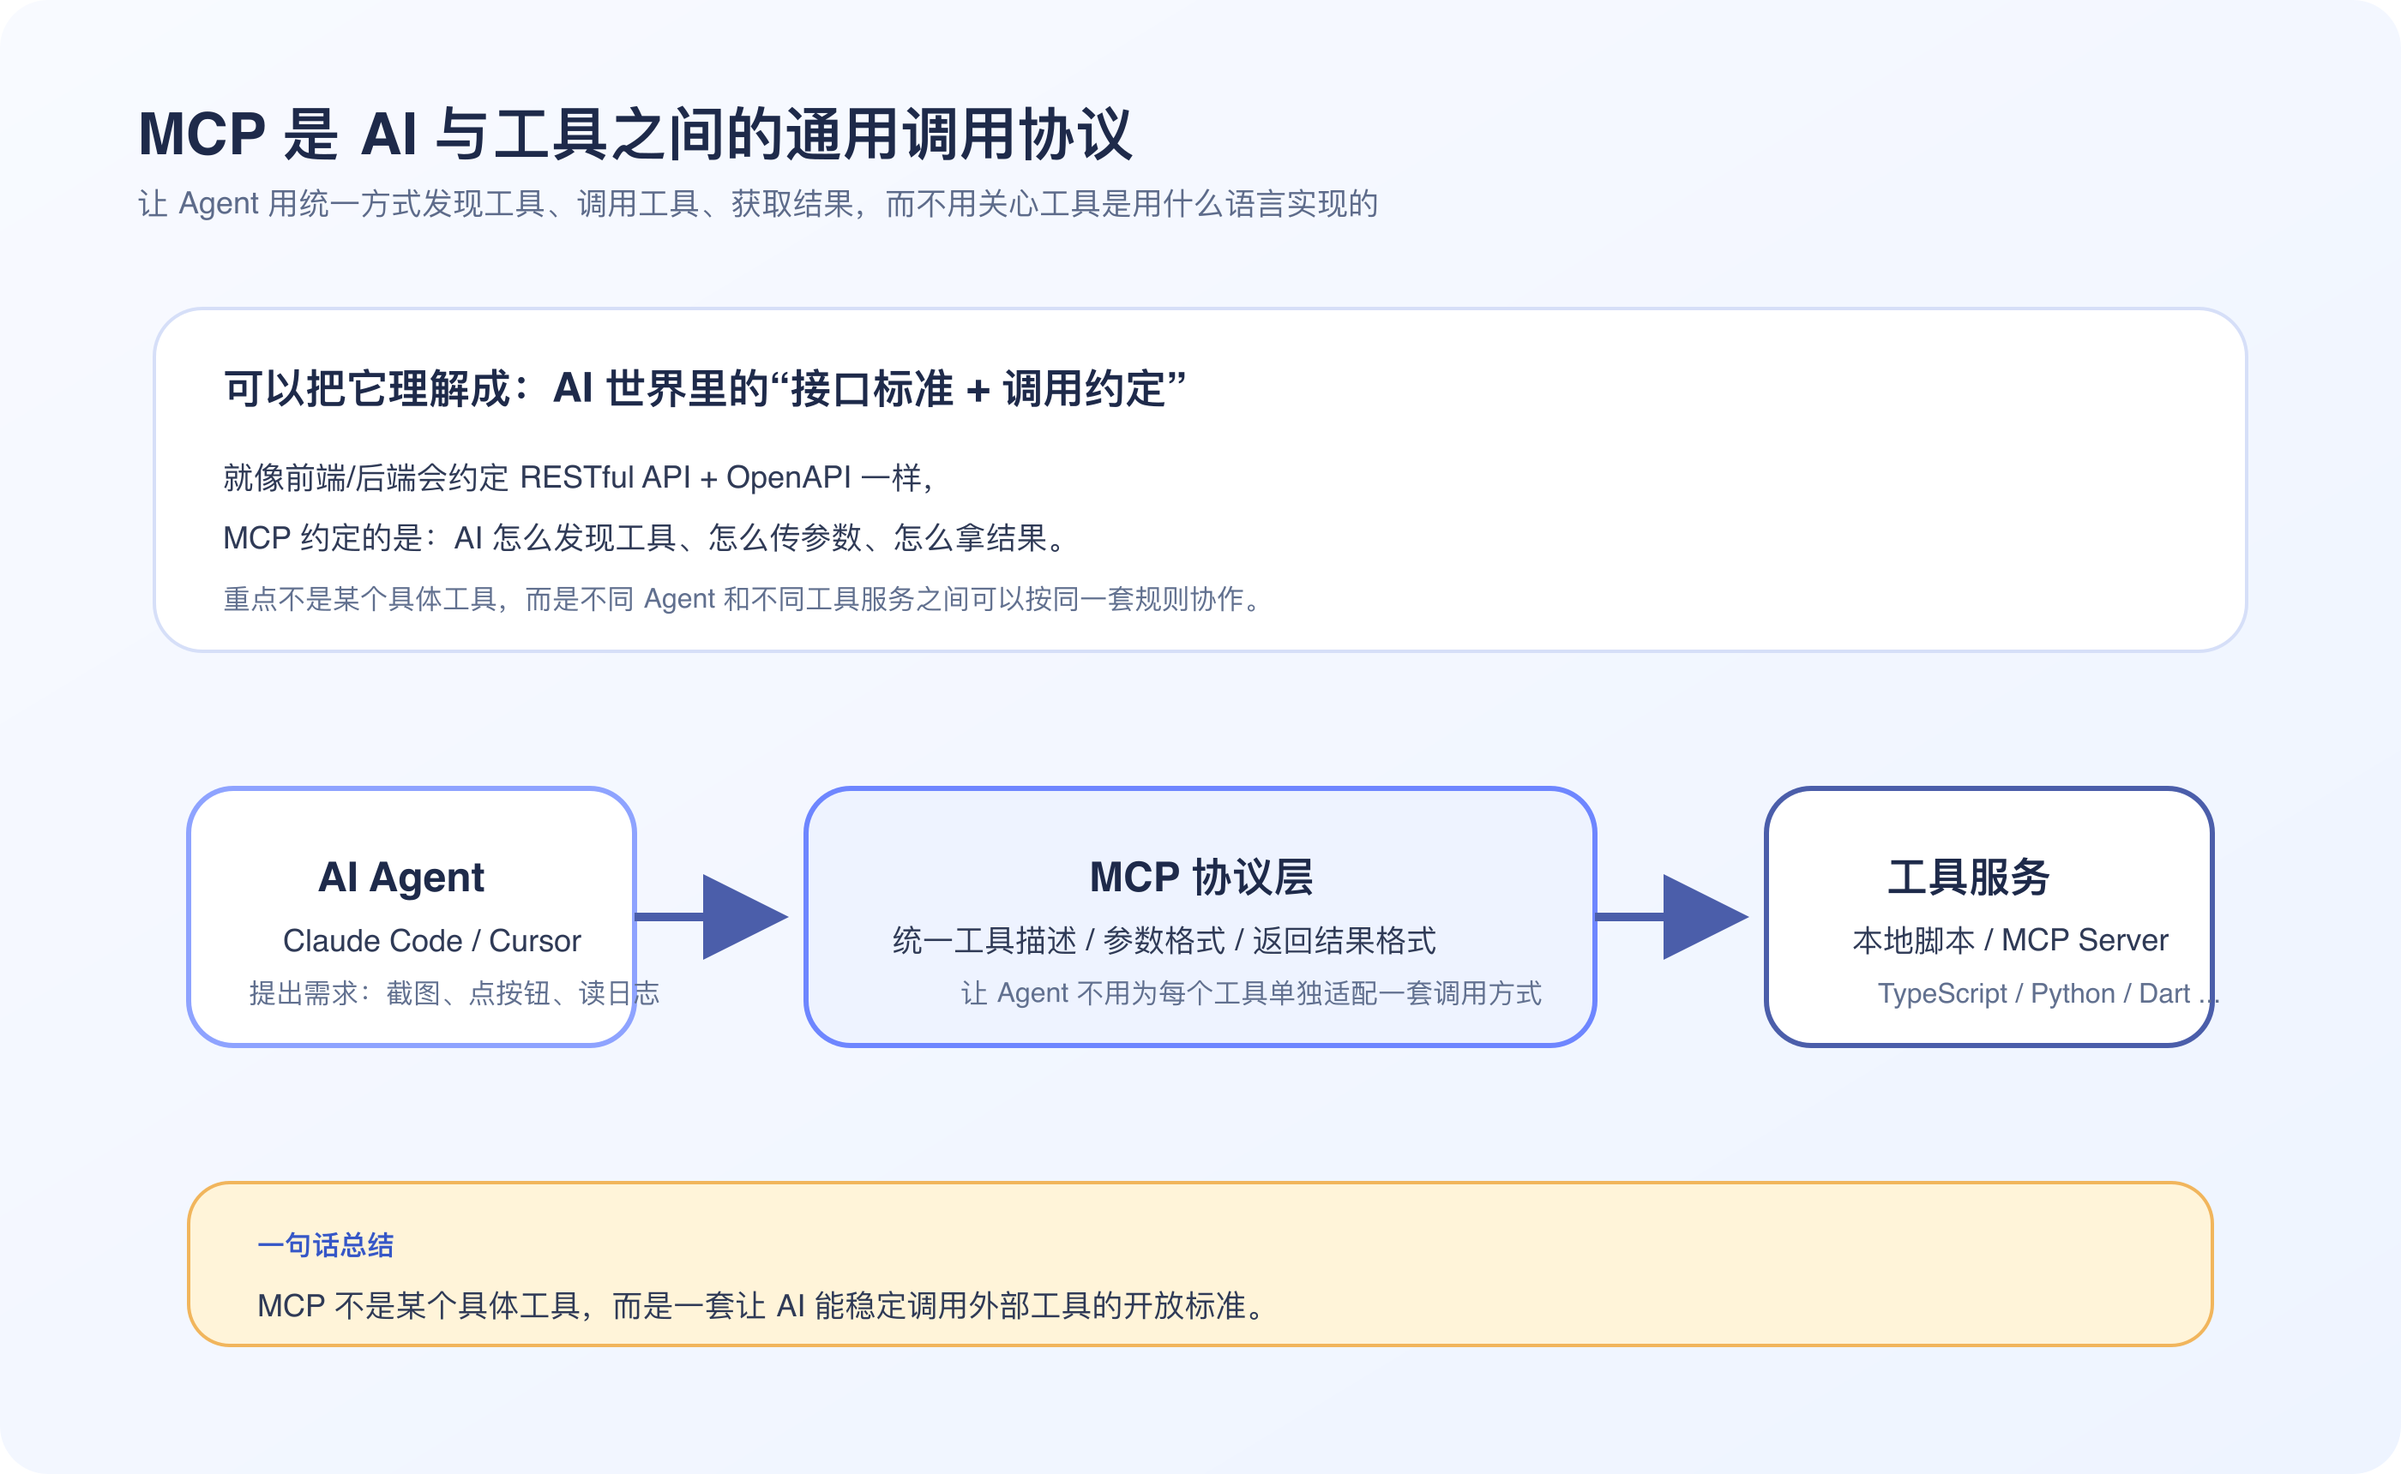
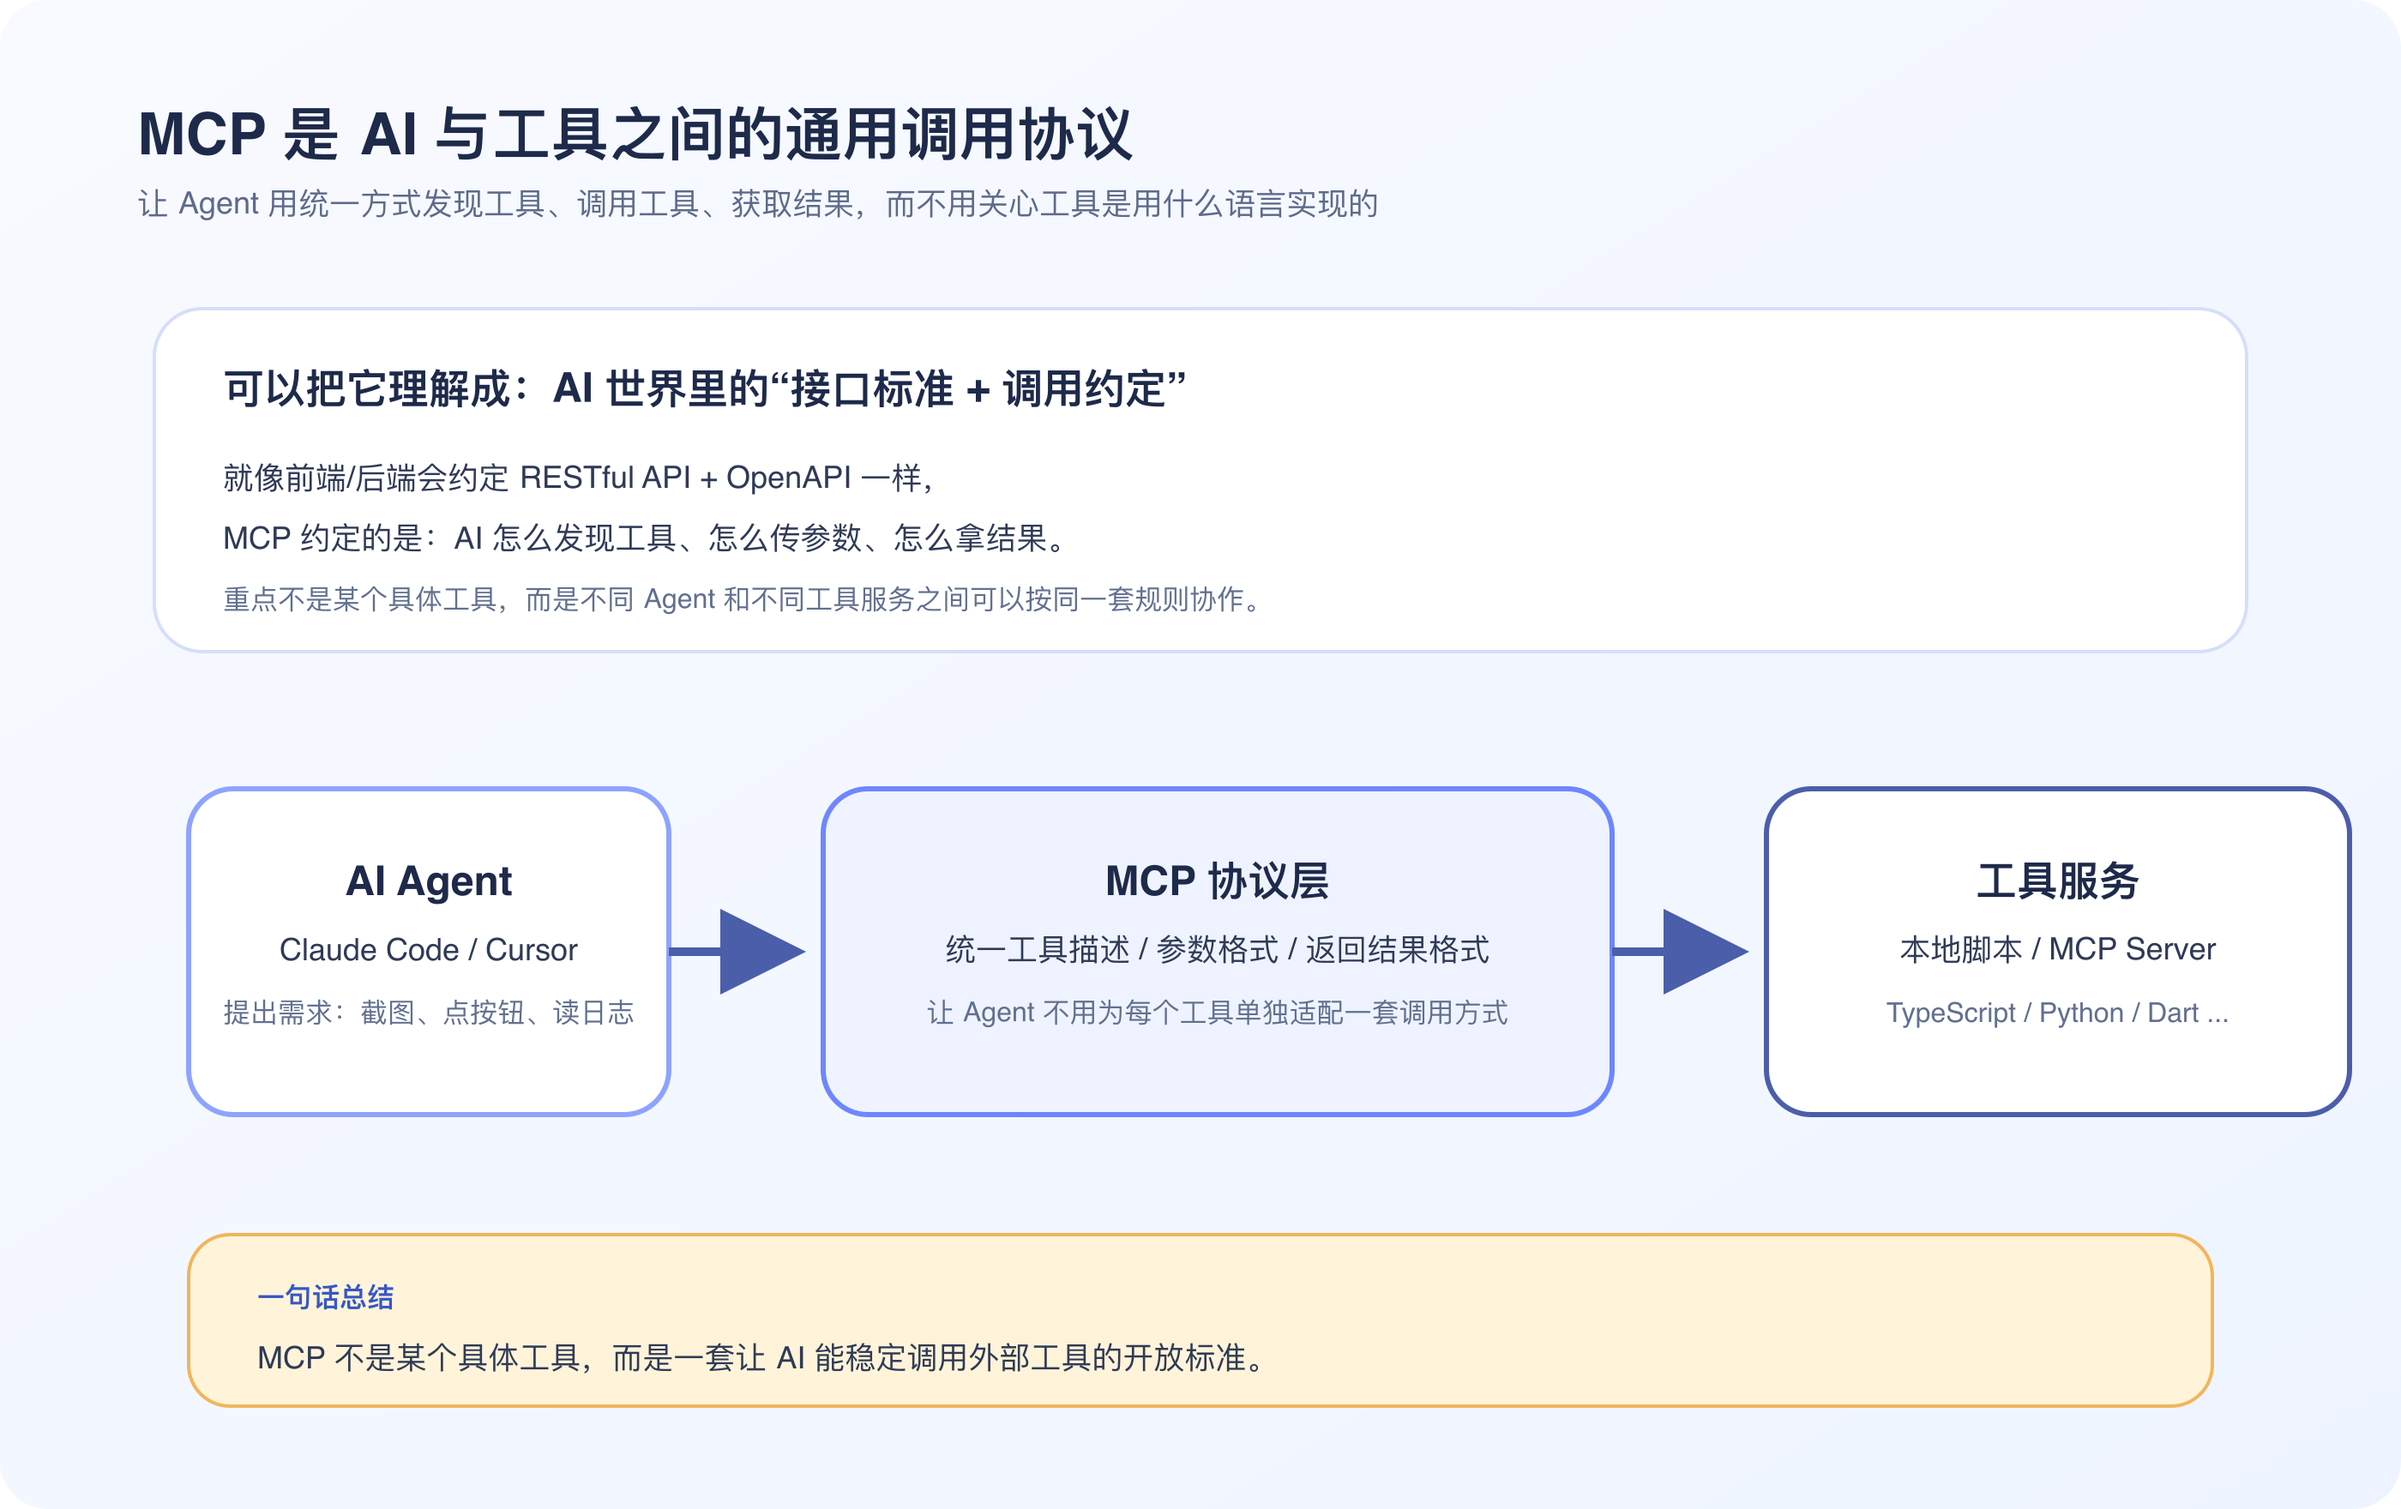
图片展示修复。

diff --git a/分享/FlutterCopilot项目演讲稿_v2.md b/分享/FlutterCopilot项目演讲稿_v2.md
@@ -9,36 +9,35 @@
 ---
 
 ## 一、开场：我为什么要做这件事
+*配图建议：这一章用两张图更合适——第一页沿用封面图【0-0-1】，第二页切到这张痛点示意图【1-1-1】《这也太难了》。*
+
 大家好，今天想和大家分享一个我最近做的开源项目，叫 Flutter Copilot。
 
-在讲它是什么之前，我先说一下我为什么会做这个东西。
+我做它的起点其实很简单。去年看到一些 AI 操作浏览器的案例时，我当时就在想：既然 AI 已经可以打开页面、点按钮、填表单、截图、读日志，**为什么 Flutter 不行？**
 
-去年我看到一个东西让我很兴奋——有人把 AI 接到了浏览器上。不是让 AI 帮你写前端代码，而是让 AI 直接打开浏览器、点按钮、填表单、截图、读日志。整个过程不需要人参与，AI 自己就能完成一次完整的页面验证。
+因为我们今天说 AI 提效，很多时候还停留在代码层面。但真正耗时间的，往往是写完代码之后的验证和排查：
+- 要自己点页面确认结果
+- 要自己复现问题、截图录屏
+- 要自己获取日志贴给 AI
+- 要再把上下文转述给 AI
+- 还要自己一点点把流程重新操作一遍
 
-我当时的第一反应是：**这也太爽了。**
+![【1-1-1】这也太难了](./images/svg/【1-1-1】这也太难了.svg)
 
-然后第二反应是：**为什么 Flutter 没有？**
+问题不是 AI 写代码不够快，而是它**看不到**你的 App。
 
-我们现在说"AI 提效"，其实大部分时候还停留在代码层面——帮你生成代码、补注释、写测试、读文档。但你想想，真正消耗我们时间的，很多时候不是写代码，而是写完之后的事：
+所以我想做的事情很明确：给 AI 装一双眼睛和一双手，让它不只是帮我写代码，还能直接进入一个运行中的 Flutter App，去看、去点、去验证。
 
-- 改了一行代码，跑起来点半天才知道对不对
-- 出了个 bug，截图录屏描述半天给 AI 看，它还不一定理解
-- 产品问"这个流程通了没"，你得自己跑一遍再回复
-- 测试反馈一个问题，你得自己复现一遍
+Flutter Copilot 就是从这里开始的。
 
-这些事情，AI 写代码再快也帮不上忙，因为它根本**看不到**你的 App 在干什么。
-
-所以我就想：能不能给 AI 装一双眼睛和一双手，让它不只是帮我写代码，还能直接进入一个正在运行的 Flutter App，去看、去点、去验证？
-
-Flutter Copilot 就是这么开始的。
-
-**一句话说清楚它是什么：它是一个桥接层，让 Claude Code、Cursor 这样的 AI，能够直接连接并操作运行中的 Flutter 应用。**
+**一句话说清楚：它是一个桥接层，让 Claude Code、Cursor 这样的 AI，能够直接连接并操作运行中的 Flutter 应用。**
 
 接下来我先让大家看看它实际能做什么，然后再聊技术实现。
 
 ---
 
 ## 二、效果演示
+*配图建议：这一章尽量放真实演示截图或录屏关键帧，不建议再放原理图。*
 
 ### 场景 A：AI 帮你验证一个表单流程
 
@@ -46,7 +45,7 @@ Flutter Copilot 就是这么开始的。
 >
 > 现在的做法：告诉 AI "帮我试一下登录流程"，它自己连接 App、找到输入框、输入内容、点击按钮、截图告诉你结果。
 
-**`[演示区域 A]`**
+**[建议新增配图：AI 自动执行登录/表单流程的终端对话 + App 页面结果截图]**
 
 *预期效果：观众看到 AI 自动连接 App → 识别页面元素 → 输入文本 → 点击按钮 → 返回截图和执行结果。全程无需人工操作。*
 
@@ -58,7 +57,7 @@ Flutter Copilot 就是这么开始的。
 >
 > 现在的做法：让 AI 结合 Figma MCP 读取设计信息，再配合 skills 和 Flutter Copilot 一起改页面、运行 App、对照效果，发现 UI 偏差后继续修复，直到接近设计稿。
 
-**`[演示区域 B]`**
+**[建议新增配图：Figma 设计稿、Flutter 页面修复前、修复后三栏对比图]**
 
 *预期效果：观众看到 AI 读取 Figma 设计信息，生成或修改 Flutter 页面代码，运行 App 后再对照界面结果继续修复 UI Bug，形成“设计 → 实现 → 验证 → 调整”的闭环。*
 
@@ -70,7 +69,7 @@ Flutter Copilot 就是这么开始的。
 >
 > 现在的做法：AI 直接从运行中的 App 抓日志，拿到错误信息后立即分析，一步到位。
 
-**`[演示区域 C]`**
+**[建议新增配图：AI 获取日志并给出异常定位结论的截图]**
 
 *预期效果：观众看到 AI 调用 `get_logs` 获取运行日志，自动识别错误信息，结合上下文给出问题定位。*
 
@@ -128,7 +127,7 @@ VM Service 是 Dart/Flutter 在 Debug 模式下暴露的运行时调试服务。
 
 ![【3-2-2】VM Service 是什么](./images/svg/【3-2-2】VMService是什么.svg)
 
-Flutter Copilot 在 App 内部注册了 14 个自定义的 Service Extension，把点击、输入、截图、日志这些能力挂上去。MCP Server 再通过 VM Service 去调用这些 Extension。
+Flutter Copilot 这一套能力最终对外体现为 15 个 MCP 工具，覆盖连接、观察、交互、导航、诊断等几个核心方向；底层则通过 App 内部能力和 VM Service 调用链路把这些动作真正执行起来。
 
 ### 3. 一条真实的调用链路
 
